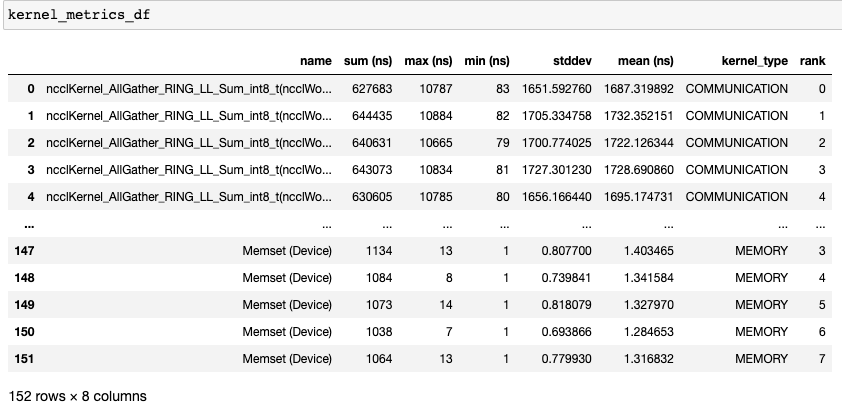
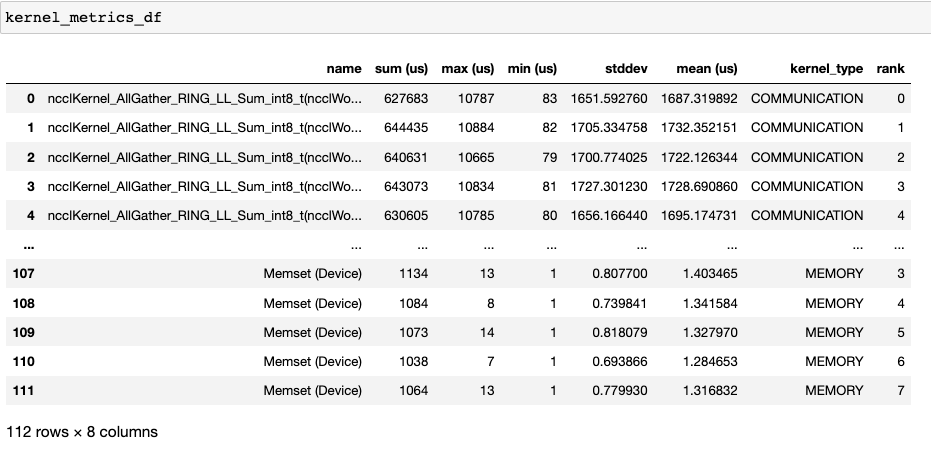
Fix time units (#51)
Summary:
## What does this PR do?
Fixes https://github.com/facebookresearch/HolisticTraceAnalysis/issues/50

## Before submitting

- [x] Was this discussed/approved via a Github issue? (no need for typos, doc improvements)
  - [ ] N/A
- [ ] Did you write any new necessary tests?
  - [x] N/A
- [x] Did you make sure to update the docs?
  - [ ] N/A
- [ ] Did you update the [changelog](https://github.com/facebookresearch/HolisticTraceAnalysis/blob/main/CHANGELOG.md)?
  - [x] N/A

Pull Request resolved: https://github.com/facebookresearch/HolisticTraceAnalysis/pull/51

Reviewed By: sunghlin

Differential Revision: D45823760

Pulled By: anupambhatnagar

fbshipit-source-id: 5604bec975ec06cf44022bd6f2ddc5ab4eaf42bc

diff --git a/hta/analyzers/breakdown_analysis.py b/hta/analyzers/breakdown_analysis.py
@@ -125,10 +125,10 @@ class BreakdownAnalysis:
         )
         all_kernel_df.rename(
             columns={
-                "sum": "sum (ns)",
-                "mean": "mean (ns)",
-                "max": "max (ns)",
-                "min": "min (ns)",
+                "sum": "sum (us)",
+                "mean": "mean (us)",
+                "max": "max (us)",
+                "min": "min (us)",
                 "std": "stddev",
             },
             inplace=True,
@@ -191,16 +191,16 @@ class BreakdownAnalysis:
                         fig = px.bar(
                             kernel_name_df,
                             x="rank",
-                            y="mean (ns)",
+                            y="mean (us)",
                             title=name,
                             labels={
                                 "rank": "Rank",
-                                "mean (ns)": "Mean Duration (ns)",
+                                "mean (us)": "Mean Duration (us)",
                             },
-                            error_y=kernel_name_df["max (ns)"]
-                            - kernel_name_df["mean (ns)"],
-                            error_y_minus=kernel_name_df["mean (ns)"]
-                            - kernel_name_df["min (ns)"],
+                            error_y=kernel_name_df["max (us)"]
+                            - kernel_name_df["mean (us)"],
+                            error_y_minus=kernel_name_df["mean (us)"]
+                            - kernel_name_df["min (us)"],
                         )
                         fig.update_layout(
                             title_text=f'Kernel type "{kernel}" - {name}',
@@ -313,8 +313,8 @@ class BreakdownAnalysis:
         """
         Compute idle time for given set of GPU kernels :
           returns :
-            idle time (ns) = kernel time - merged execution time of all kernels
-            kernel time (ns) = defined as the time difference between end of the
+            idle time (us) = kernel time - merged execution time of all kernels
+            kernel time (us) = defined as the time difference between end of the
                          last kernel and start of the first kernel.
             PS: we exclude the last profiler iteration while reading trace
             so total time is exclusive of that.
@@ -333,7 +333,7 @@ class BreakdownAnalysis:
         sym_table = t.symbol_table.get_sym_table()
 
         def idle_time_per_rank(trace_df: pd.DataFrame) -> Tuple[int, int, int, int]:
-            """returns idle_time (ns) , compute_time (ns), non_compute_time (ns), total_time (ns)"""
+            """returns idle_time (us) , compute_time (us), non_compute_time (us), total_time (us)"""
             gpu_kernels = trace_df[trace_df["stream"].ne(-1)].copy()
             idle_time, kernel_time = cls._get_idle_time_for_kernels(gpu_kernels)
 
@@ -362,22 +362,22 @@ class BreakdownAnalysis:
             idle_time, compute_time, non_compute_time, kernel_time = idle_time_per_rank(
                 trace_df
             )
-            result["idle_time(ns)"].append(idle_time)
-            result["compute_time(ns)"].append(compute_time)
-            result["non_compute_time(ns)"].append(non_compute_time)
-            result["kernel_time(ns)"].append(kernel_time)
+            result["idle_time(us)"].append(idle_time)
+            result["compute_time(us)"].append(compute_time)
+            result["non_compute_time(us)"].append(non_compute_time)
+            result["kernel_time(us)"].append(kernel_time)
 
         result_df = pd.DataFrame(result)
         result_df["idle_time"] = (
-            result_df["idle_time(ns)"] / result_df["kernel_time(ns)"]
+            result_df["idle_time(us)"] / result_df["kernel_time(us)"]
         )
         result_df["idle_time_pctg"] = round(100 * result_df["idle_time"], 2)
         result_df["compute_time"] = (
-            result_df["compute_time(ns)"] / result_df["kernel_time(ns)"]
+            result_df["compute_time(us)"] / result_df["kernel_time(us)"]
         )
         result_df["compute_time_pctg"] = round(100 * result_df["compute_time"], 2)
         result_df["non_compute_time"] = (
-            result_df["non_compute_time(ns)"] / result_df["kernel_time(ns)"]
+            result_df["non_compute_time(us)"] / result_df["kernel_time(us)"]
         )
         result_df["non_compute_time_pctg"] = round(
             100 * result_df["non_compute_time"], 2
@@ -403,10 +403,10 @@ class BreakdownAnalysis:
         return result_df[
             [
                 "rank",
-                "idle_time(ns)",
-                "compute_time(ns)",
-                "non_compute_time(ns)",
-                "kernel_time(ns)",
+                "idle_time(us)",
+                "compute_time(us)",
+                "non_compute_time(us)",
+                "kernel_time(us)",
                 "idle_time_pctg",
                 "compute_time_pctg",
                 "non_compute_time_pctg",
@@ -563,7 +563,7 @@ class BreakdownAnalysis:
                 )
             else:
                 fig.update_layout(
-                    yaxis_title="Idle time (ns)", legend_title="Idle Time Breakdown"
+                    yaxis_title="Idle time (us)", legend_title="Idle Time Breakdown"
                 )
             fig.show()
 

diff --git a/tests/test_trace_analysis.py b/tests/test_trace_analysis.py
@@ -62,9 +62,9 @@ class TraceAnalysisTestCase(unittest.TestCase):
         )
         self.assertEqual(frequent_patterns_dfs.iloc[2]["count"], 48)
         self.assertEqual(
-            frequent_patterns_dfs.iloc[2]["GPU kernel duration (ns)"], 11300
+            frequent_patterns_dfs.iloc[2]["GPU kernel duration (us)"], 11300
         )
-        self.assertEqual(frequent_patterns_dfs.iloc[2]["CPU op duration (ns)"], 9652)
+        self.assertEqual(frequent_patterns_dfs.iloc[2]["CPU op duration (us)"], 9652)
         mock_write_trace.assert_called_once()
         trace_output_filename, _ = mock_write_trace.call_args.args
         self.assertEqual(trace_output_filename, self.overlaid_trace_file)
@@ -188,9 +188,9 @@ class TraceAnalysisTestCase(unittest.TestCase):
         self.assertEqual(kernel_type_breakdown.iloc[0]["kernel_type"], "COMMUNICATION")
         self.assertEqual(kernel_type_breakdown.iloc[0]["sum"], 8040285)
         self.assertEqual(kernel_breakdown.iloc[0]["kernel_type"], "COMMUNICATION")
-        self.assertEqual(kernel_breakdown.iloc[0]["sum (ns)"], 627683)
+        self.assertEqual(kernel_breakdown.iloc[0]["sum (us)"], 627683)
         self.assertEqual(kernel_breakdown.iloc[151]["kernel_type"], "MEMORY")
-        self.assertEqual(kernel_breakdown.iloc[151]["sum (ns)"], 1064)
+        self.assertEqual(kernel_breakdown.iloc[151]["sum (us)"], 1064)
 
     def test_get_queue_length_summary(self):
         qd_summary = self.vision_transformer_t.get_queue_length_summary(ranks=[0])

diff --git a/hta/analyzers/cuda_kernel_analysis.py b/hta/analyzers/cuda_kernel_analysis.py
@@ -172,10 +172,10 @@ class CudaKernelAnalysis:
         for pattern, count in pattern_counts.items():
             patterns_result["pattern"].append("|".join(sym_table[x] for x in pattern))
             patterns_result["count"].append(count)
-            patterns_result["GPU kernel duration (ns)"].append(
+            patterns_result["GPU kernel duration (us)"].append(
                 pattern_durations[pattern][0]
             )
-            patterns_result["CPU op duration (ns)"].append(
+            patterns_result["CPU op duration (us)"].append(
                 pattern_durations[pattern][1]
             )
             patterns_result["pattern_indices"].append(pattern_occurrences[pattern])

diff --git a/README.md b/README.md
@@ -31,6 +31,9 @@ HTA provides the following features:
    insights into memory bandwidth utilized and number of outstanding operations on each CUDA stream.
 1. __Trace Comparison__ - A trace comparison tool to identify and visualize the differences between
    traces.
+1. __CUPTI Counter Analysis__ - An experimental API to get GPU performance counters. By attributing
+   performance measurements from kernels to PyTorch operators roofline analysis can be performed and
+   kernels can be optimized.
 
 ## Installation
 
